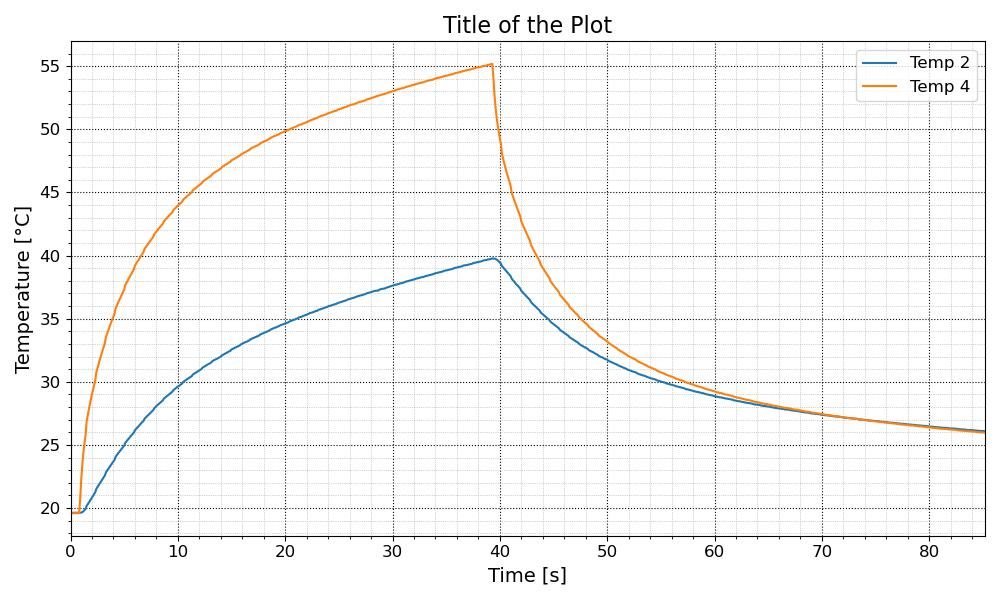
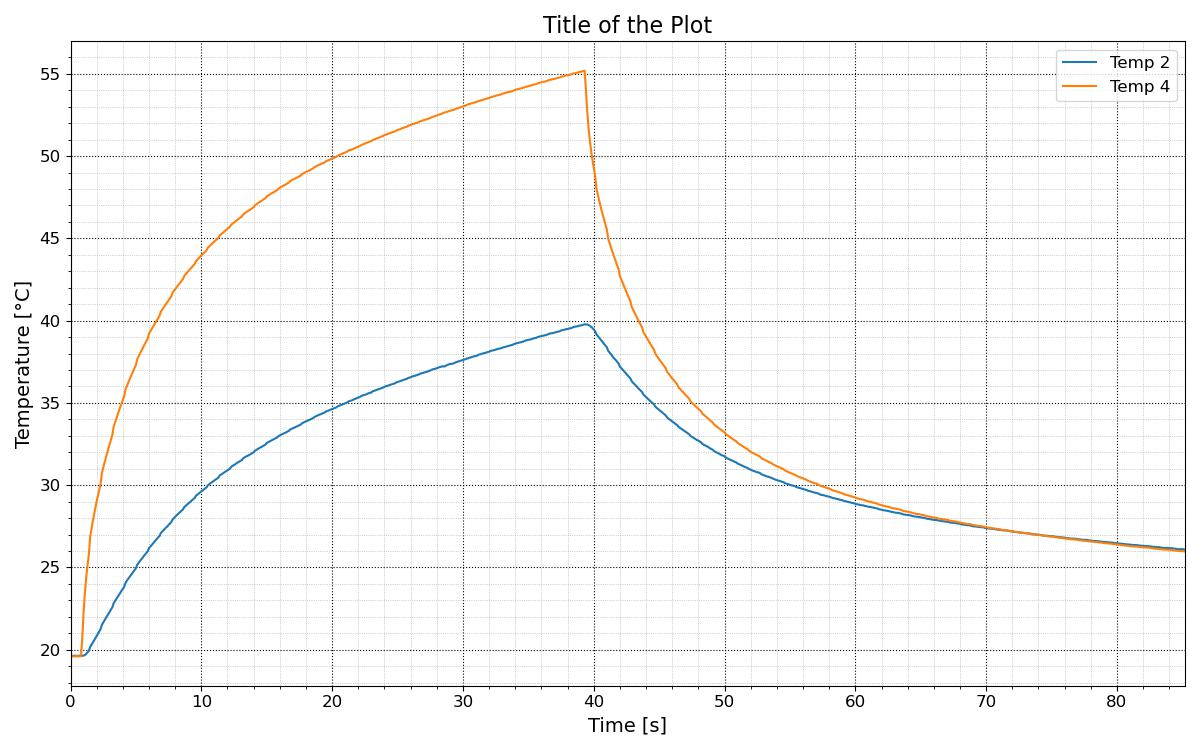
updated mistake in extraction of plot size. Tested adding Latex support for title, legend and axis labels - no solution found atm.

Changed region(s): [[0.0, 0.0, 0.992, 0.99], [0.713, 0.57, 0.744, 0.6]]

diff --git a/plot_single/plot_histo/plot_histo.py b/plot_single/plot_histo/plot_histo.py
@@ -130,6 +130,7 @@ def main():
         cleanup_rules = config.get("header_cleanup", [])
         df.columns = clean_column_names(df.columns, cleanup_rules)
 
+        # data preprocessing
         # conversion from hex to int
         df_int = df.map(lambda x: int(x, 16))
 
@@ -142,7 +143,9 @@ def main():
         output_dir = config.get("output_dir", "output")
 
         # Single Histogramm
-        plt.figure(figsize=tuple(config.get("plot_size", [12, 7.5])))
+        plot_format = config.get("plot_format", {})
+        plot_format_size = plot_format.get("size")
+        plt.figure(figsize=[plot_format_size.get("width",12), plot_format_size.get("height",7.5)])
         for i, column in enumerate(df_int.columns):
             plt.hist(df_int[column], bins=30, alpha=0.6, label=column, edgecolor="black")
 
@@ -157,7 +160,8 @@ def main():
             plt.close()
 
         # Separated Hsitogram
-        fig, axes = plt.subplots(2, 3, figsize=tuple(config.get("plot_size", [12, 7.5])))
+
+        fig, axes = plt.subplots(2, 3, figsize=[plot_format_size.get("width",12), plot_format_size.get("height",7.5)])
         axes = axes.flatten()
         plot_format = config.get("plot_format", {})
         fonts = plot_format.get("font_sizes", {})

diff --git a/plot_single/plot_single_xy/plot_single_xy.py b/plot_single/plot_single_xy/plot_single_xy.py
@@ -98,7 +98,7 @@ def main():
     config_file = sys.argv[1]
     config = load_config(config_file)
     input_files = get_input_files(config)
-
+    
     # determine if batch mode
     batch_mode = len(input_files) > 1
 
@@ -129,7 +129,9 @@ def main():
             selected_indices = list(range(len(all_columns)))
         selected_columns = [all_columns[i] for i in selected_indices]
         # Plot setup
-        plt.figure(figsize=tuple(config.get("plot_size", [12, 7.5])))
+        plot_format = config.get("plot_format", {})
+        plot_format_size = plot_format.get("size")
+        plt.figure(figsize=[plot_format_size.get("width",12), plot_format_size.get("height",7.5)])
 
         for col in selected_columns:
             plt.plot(x_windowed, df[col][start_idx:end_idx], label=col)

diff --git a/plot_compare/plot_compare.py b/plot_compare/plot_compare.py
@@ -221,7 +221,9 @@ def main():
         selected_indices = list(range(len(columns)))
     selected_columns = [columns[i] for i in selected_indices]
 
-    plt.figure(figsize=tuple(config.get("plot_size", [10, 6])))
+    plot_format = config.get("plot_format", {})
+    plot_format_size = plot_format.get("size")
+    plt.figure(figsize=[plot_format_size.get("width",12), plot_format_size.get("height",7.5)])
 
     for col in selected_columns:
         plt.plot(time1_windowed, df1[col][start_idx1:end_idx1], label=f"{col} (File 1)")

diff --git a/plot_single/plot_single_sampled/plot_single_sampled.py b/plot_single/plot_single_sampled/plot_single_sampled.py
@@ -134,7 +134,9 @@ def main():
         selected_columns = [all_columns[i] for i in selected_indices]
 
         # Plot setup
-        plt.figure(figsize=tuple(config.get("plot_size", [10, 6])))
+        plot_format = config.get("plot_format", {})
+        plot_format_size = plot_format.get("size")
+        plt.figure(figsize=[plot_format_size.get("width",12), plot_format_size.get("height",7.5)])
 
         for col in selected_columns:
             plt.plot(time_windowed, df[col][start_idx:end_idx], label=col)
